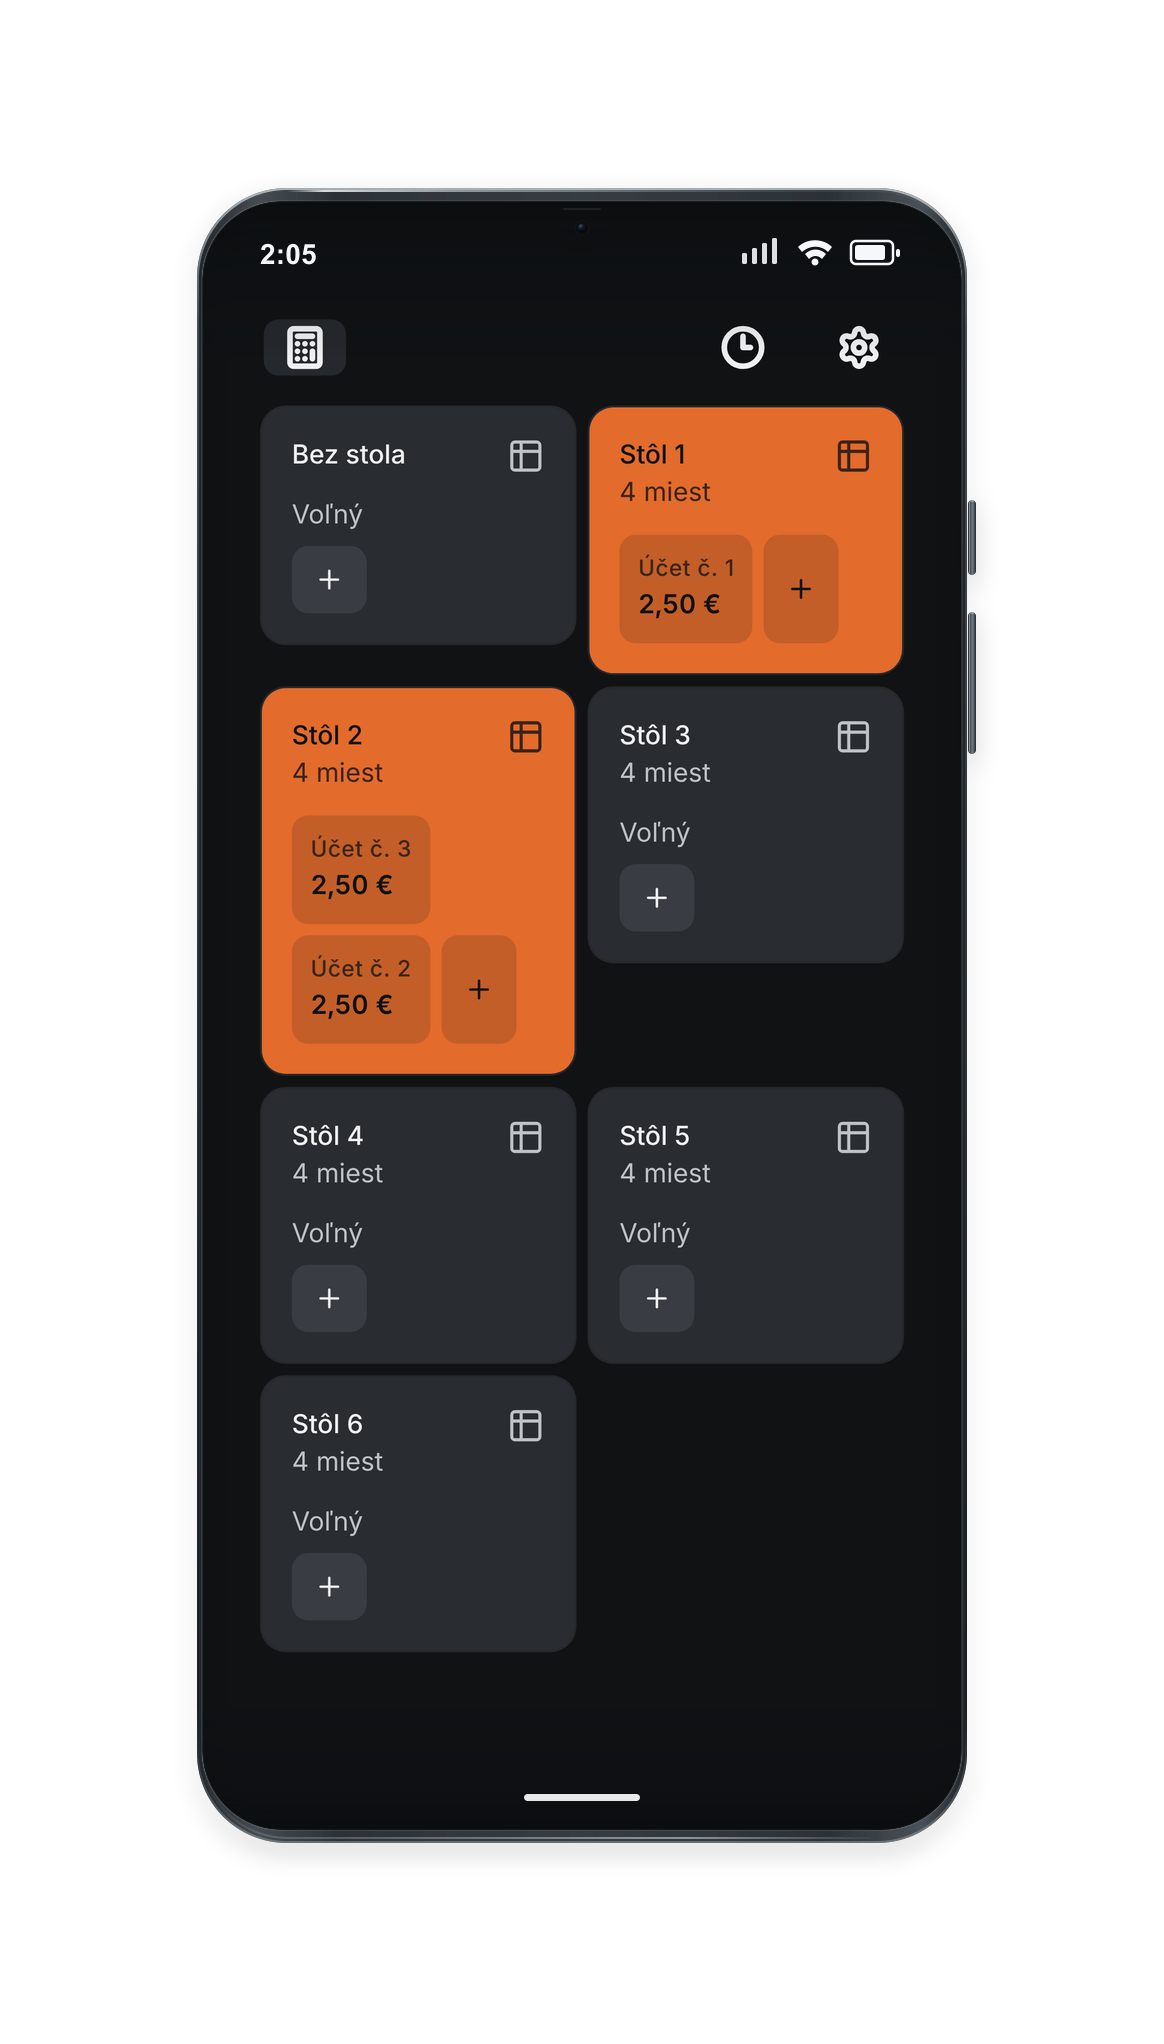
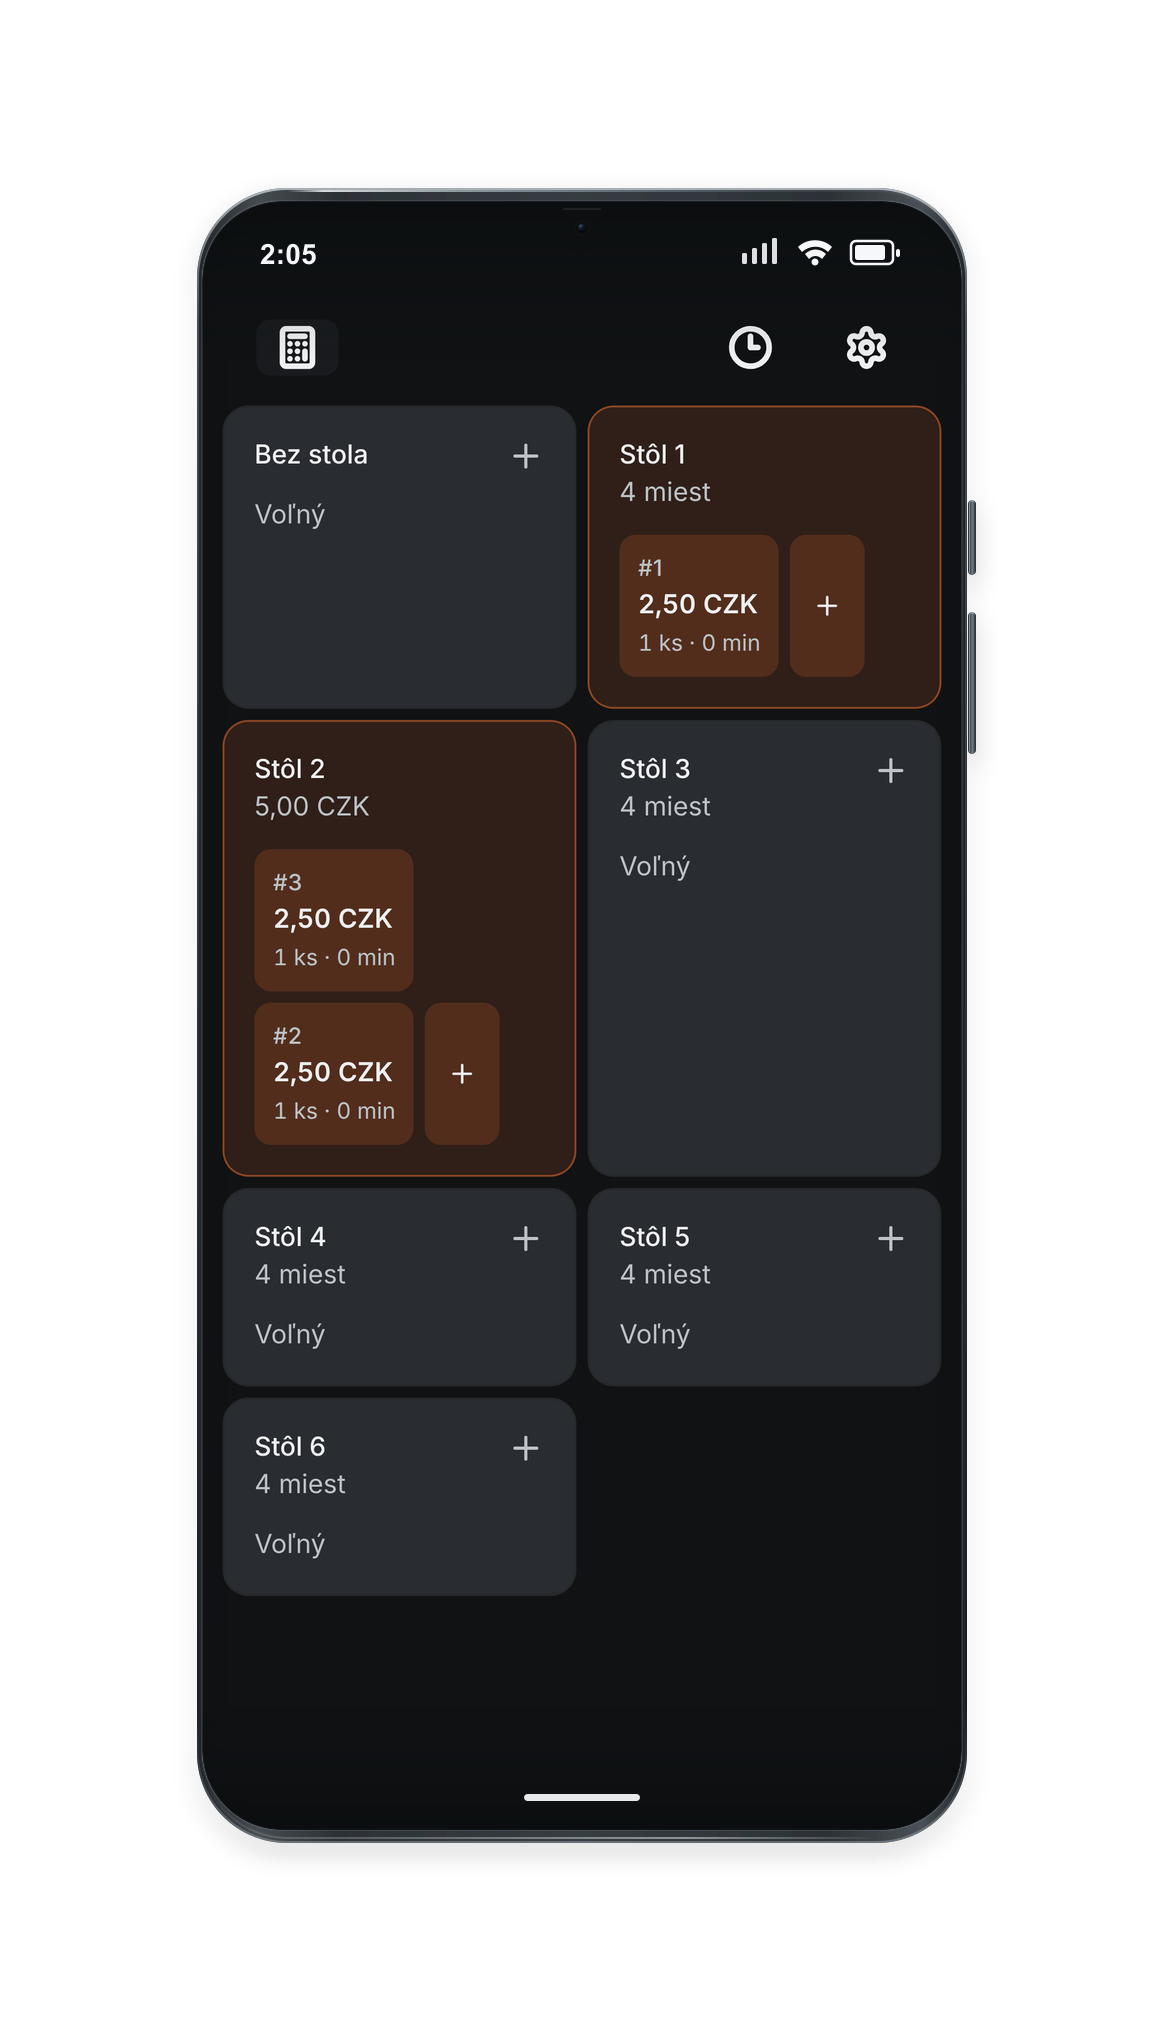
feat(terminal-home): calm the pos floor view and surface table totals
On a busy floor most tiles are occupied, and solid-filled tiles stopped
telling them apart; occupied is now a tint with an accent ring, leaving
the solid accent for the payment badges that need attention. Tiles in a
row share a height, so a tall tile no longer leaves a gap beside it.

The table glyph repeated on every tile carried nothing; a free tile shows
a "+" in its place instead of a separate button. A table with several
bills shows its running total instead of the seat count, and bill cards
read "#3" with an item count rather than repeating "Bill #".

The single-bill tile's full-tile link is now aria-hidden and unfocusable,
only widening the bill card's own target, so a tap at the tile's centre
can no longer land on the "+" instead of the bill.

Claude-Session: https://claude.ai/code/session_01BK6n6yMEXHuB1LsHBmX4Pa

Changed region(s): [[0.1856, 0.1541, 0.8351, 0.8322], [0.433, 0.2158, 0.4639, 0.2466]]

diff --git a/src/features/terminal-home/pos-overview-page.tsx b/src/features/terminal-home/pos-overview-page.tsx
@@ -16,6 +16,7 @@ import {
   calculateBillLineSummaries,
   deriveBillSummaryStats,
 } from "@/core/modules/bill-line/bill-line-utils.ts"
+import { NonNegativeInteger } from "@/core/modules/shared/schema.ts"
 import { tablesQuery } from "@/core/modules/table/table-queries.ts"
 import type { TableId } from "@/core/modules/table/table-types.ts"
 import { TableTileShell } from "@/features/tables/table-tile.tsx"
@@ -23,7 +24,6 @@ import { useEvoluQuery } from "@/hooks/use-evolu-query.ts"
 import { useLocale } from "@/hooks/use-locale.ts"
 import { useTranslation } from "@/hooks/use-translation.ts"
 import { formatElapsed, formatMoney } from "@/lib/format-utils.ts"
-import { cn } from "@/lib/utils.ts"
 
 /**
  * Single overview grid for the POS home screen: a permanent "no table"
@@ -63,7 +63,7 @@ export function PosOverviewPage() {
   )
 
   return (
-    <div className="mt-4 grid grid-cols-2 items-start gap-2 pb-4">
+    <div className="mt-4 grid grid-cols-2 gap-2 pb-4">
       <OverviewTile
         testId="no-table-tile"
         name={t("bill.table.dialog.none")}
@@ -93,7 +93,12 @@ const stretchedLinkClassName =
  * `tableId` undefined. A free tile starts a bill anywhere it is tapped, and a
  * tile with exactly one bill opens it; only with two or more bills does the
  * tap have to pick one. The "+" stays for a second bill (a split check) and
- * sits above the tile-wide link.
+ * sits above the tile-wide link. That link only widens the bill card's own
+ * target, so it is hidden from assistive tech and focus instead of being a
+ * second, empty link to the same bill.
+ *
+ * With two or more bills the subtitle swaps the seat count for the table's
+ * running total — what staff look for once a table is seated.
  */
 function OverviewTile({
   testId,
@@ -109,41 +114,69 @@ function OverviewTile({
   readonly bills: ReadonlyArray<OpenBillRow>
 }) {
   const { t } = useTranslation()
+  const locale = useLocale()
   const occupied = bills.length > 0
   const onlyBill = bills.length === 1 ? bills[0] : undefined
 
+  // Derived from the rows' embedded `lines`/`items`, not a per-bill query:
+  // a query per bill meant the floor view opened two more for every bill on
+  // screen.
+  const rows = useMemo(
+    () =>
+      bills.map((bill) => ({
+        bill,
+        stats: deriveBillSummaryStats(
+          calculateBillLineSummaries(bill.lines, bill.items)
+        ),
+      })),
+    [bills]
+  )
+  const [firstBill] = bills
+  const tableTotal =
+    bills.length > 1 &&
+    firstBill !== undefined &&
+    bills.every((bill) => bill.currency === firstBill.currency)
+      ? formatMoney(
+          {
+            value: NonNegativeInteger(
+              rows.reduce((sum, { stats }) => sum + stats.totalAmount, 0)
+            ),
+            currency: firstBill.currency,
+          },
+          locale
+        )
+      : undefined
+
   return (
     <div data-testid={testId} className="relative">
-      <TableTileShell name={name} subtitle={subtitle} occupied={occupied}>
-        <div className="flex flex-col gap-1.5">
-          {!occupied && (
-            <p className="text-sm text-muted-foreground">
-              {t("tables.tile.free")}
-            </p>
-          )}
+      <TableTileShell
+        name={name}
+        subtitle={tableTotal ?? subtitle}
+        occupied={occupied}
+        icon={
+          occupied ? null : (
+            <PlusIcon className="size-5 shrink-0 text-muted-foreground" />
+          )
+        }
+      >
+        {occupied ? (
           <div className="flex flex-wrap gap-1.5">
-            {bills.map((bill) => (
-              <TileBillCard
-                key={bill.id}
-                bill={bill}
-                linked={onlyBill === undefined}
-              />
+            {rows.map(({ bill, stats }) => (
+              <TileBillCard key={bill.id} bill={bill} stats={stats} />
             ))}
-            {occupied ? (
-              <NewBillLink
-                tableId={tableId}
-                aria-label={t("tables.tile.newBill")}
-                className="relative z-10 flex items-center justify-center rounded-lg bg-primary-foreground/15 px-3 py-2.5 text-primary-foreground transition-colors hover:bg-primary-foreground/25"
-              >
-                <PlusIcon className="size-4" />
-              </NewBillLink>
-            ) : (
-              <span className="flex items-center justify-center rounded-lg bg-muted px-3 py-2.5 text-foreground">
-                <PlusIcon className="size-4" />
-              </span>
-            )}
+            <NewBillLink
+              tableId={tableId}
+              aria-label={t("tables.tile.newBill")}
+              className="relative z-10 flex items-center justify-center rounded-lg bg-primary/20 px-3 py-2.5 transition-colors hover:bg-primary/30"
+            >
+              <PlusIcon className="size-4" />
+            </NewBillLink>
           </div>
-        </div>
+        ) : (
+          <p className="text-sm text-muted-foreground">
+            {t("tables.tile.free")}
+          </p>
+        )}
       </TableTileShell>
       {!occupied && (
         <NewBillLink
@@ -156,7 +189,8 @@ function OverviewTile({
         <Link
           to="/bill"
           search={{ billId: onlyBill.id }}
-          aria-label={billLabel(onlyBill, t)}
+          aria-hidden
+          tabIndex={-1}
           className={stretchedLinkClassName}
         />
       )}
@@ -201,34 +235,24 @@ const billLabel = (
  * One open bill inside a tile, shown as its own small card (rather than a
  * full-width row or a single count) so each bill — including split checks
  * at the same table — can be jumped into directly, and several sit side
- * by side instead of always stacking one per line. `linked` is false when
- * the tile itself already links to this, its only bill.
+ * by side instead of always stacking one per line.
  *
  * Also shows how long the bill has been open and whether a payment is in
  * flight or has partly landed, so staff can spot the table that is waiting.
+ * That badge is the one solid accent on the floor view, on purpose.
  */
 function TileBillCard({
   bill,
-  linked,
+  stats,
 }: {
   readonly bill: OpenBillRow
-  readonly linked: boolean
+  readonly stats: ReturnType<typeof deriveBillSummaryStats>
 }) {
   const { t } = useTranslation()
   const locale = useLocale()
   // ponytail: 30 s tick, so an expired invoice's "paying" badge can outlive
   // `expiresAt` by up to that — use `useNow(expiresAt)` if it ever matters.
   const now = useTimestamp({ interval: 30_000 })
-  // Derived from the row's embedded `lines`/`items`, not a per-bill query:
-  // this card renders once per open bill, so a query here meant the floor
-  // view opened two more for every bill on screen.
-  const { totalAmount } = useMemo(
-    () =>
-      deriveBillSummaryStats(
-        calculateBillLineSummaries(bill.lines, bill.items)
-      ),
-    [bill]
-  )
   const hasPendingPayment =
     derivePendingPaymentIds(
       bill.payments,
@@ -238,21 +262,30 @@ function TileBillCard({
   // Still open with a claim behind it: some money is in, not all of it.
   const isPartlyPaid = bill.claims.length > 0
 
-  const className =
-    "flex max-w-full flex-col items-start gap-0.5 rounded-lg bg-primary-foreground/15 px-2.5 py-2.5 text-primary-foreground"
-  const content = (
-    <>
-      <span className="max-w-full truncate text-xs font-medium tracking-wide text-primary-foreground/75">
-        {billLabel(bill, t)}
+  return (
+    <Link
+      to="/bill"
+      search={{ billId: bill.id }}
+      aria-label={billLabel(bill, t)}
+      className="relative z-10 flex max-w-full flex-col items-start gap-0.5 rounded-lg bg-primary/20 px-2.5 py-2.5 transition-colors hover:bg-primary/30"
+    >
+      <span className="max-w-full truncate text-xs font-medium tracking-wide text-muted-foreground">
+        {bill.label ??
+          t("tables.tile.billNumber", { number: bill.displayNumber })}
       </span>
       <span className="text-sm font-semibold tabular-nums">
-        {formatMoney({ value: totalAmount, currency: bill.currency }, locale)}
+        {formatMoney(
+          { value: stats.totalAmount, currency: bill.currency },
+          locale
+        )}
       </span>
-      <span className="text-xs tabular-nums text-primary-foreground/75">
+      <span className="text-xs tabular-nums text-muted-foreground">
+        {t("tables.tile.itemCount", { value: stats.itemCount })}
+        {" · "}
         {formatElapsed(now - new Date(bill.createdAt).getTime(), locale)}
       </span>
       {(hasPendingPayment || isPartlyPaid) && (
-        <span className="mt-0.5 rounded-sm bg-primary-foreground px-1.5 py-0.5 text-[0.7rem] font-semibold text-primary">
+        <span className="mt-0.5 rounded-sm bg-primary px-1.5 py-0.5 text-[0.7rem] font-semibold text-primary-foreground">
           {t(
             hasPendingPayment
               ? "tables.tile.paymentPending"
@@ -260,22 +293,6 @@ function TileBillCard({
           )}
         </span>
       )}
-    </>
-  )
-
-  if (!linked) return <div className={className}>{content}</div>
-
-  return (
-    <Link
-      to="/bill"
-      search={{ billId: bill.id }}
-      aria-label={billLabel(bill, t)}
-      className={cn(
-        className,
-        "transition-colors hover:bg-primary-foreground/25"
-      )}
-    >
-      {content}
     </Link>
   )
 }

diff --git a/src/features/tables/table-tile.tsx b/src/features/tables/table-tile.tsx
@@ -18,25 +18,32 @@ import { cn } from "@/lib/utils.ts"
  * assignment picker, so all three show occupancy the same way. Takes a
  * plain name/subtitle rather than a `TableRow` so a non-table tile can
  * reuse it without faking a table row.
+ *
+ * Occupied is a tint and an accent ring, not a solid fill: on a busy floor
+ * most tiles are occupied, and a wall of solid color stops telling them
+ * apart — the solid accent is left for what needs attention inside a tile.
+ * `icon` defaults to the table glyph; pass `null` for none.
  */
 export function TableTileShell({
   name,
   subtitle,
   occupied,
   selected,
+  icon = <Table2 className="size-5 shrink-0 text-muted-foreground" />,
   children,
 }: {
   readonly name: string
   readonly subtitle?: ReactNode
   readonly occupied: boolean
   readonly selected?: boolean
+  readonly icon?: ReactNode
   readonly children: ReactNode
 }) {
   return (
     <Card
       className={cn(
-        "gap-3 p-4",
-        occupied && "bg-primary text-primary-foreground",
+        "h-full gap-3 p-4",
+        occupied && "bg-primary/15 ring-primary/60",
         selected && "ring-2 ring-primary ring-offset-2 ring-offset-background"
       )}
     >
@@ -44,22 +51,10 @@ export function TableTileShell({
         <div className="min-w-0">
           <p className="truncate font-medium">{name}</p>
           {subtitle !== undefined && (
-            <p
-              className={cn(
-                "text-sm text-muted-foreground",
-                occupied && "text-primary-foreground/80"
-              )}
-            >
-              {subtitle}
-            </p>
+            <p className="text-sm text-muted-foreground">{subtitle}</p>
           )}
         </div>
-        <Table2
-          className={cn(
-            "size-5 shrink-0 text-muted-foreground",
-            occupied && "text-primary-foreground/80"
-          )}
-        />
+        {icon}
       </div>
       {children}
     </Card>
@@ -80,9 +75,9 @@ export function OccupiedTableSummary({ bill }: { readonly bill: OpenBillRow }) {
   )
 
   return (
-    <div className="flex flex-col gap-0.5 text-primary-foreground/80">
+    <div className="flex flex-col gap-0.5 text-muted-foreground">
       <p className="text-sm">{t("bill.itemsCount", { value: itemCount })}</p>
-      <p className="text-sm font-semibold text-primary-foreground">
+      <p className="text-sm font-semibold text-foreground">
         {formatMoney({ value: totalAmount, currency: bill.currency }, locale)}
       </p>
     </div>

diff --git a/src/i18n/cs/common.ts b/src/i18n/cs/common.ts
@@ -62,7 +62,9 @@ export const csCommon = {
   "scanner.torch.off": "Vypnout svítilnu",
   "scanner.torch.on": "Zapnout svítilnu",
   "tables.seatCount": "{value} míst",
+  "tables.tile.billNumber": "#{number}",
   "tables.tile.free": "Volný",
+  "tables.tile.itemCount": "{value} ks",
   "tables.tile.multipleBills": "{value} otevřených účtů",
   "tables.tile.newBill": "Nový účet",
   "tables.tile.partiallyPaid": "Částečně zaplaceno",

diff --git a/src/i18n/sk/common.ts b/src/i18n/sk/common.ts
@@ -63,7 +63,9 @@ export const skCommon = {
   "scanner.torch.off": "Vypnúť svetlo",
   "scanner.torch.on": "Zapnúť svetlo",
   "tables.seatCount": "{value} miest",
+  "tables.tile.billNumber": "#{number}",
   "tables.tile.free": "Voľný",
+  "tables.tile.itemCount": "{value} ks",
   "tables.tile.multipleBills": "{value} otvorených účtov",
   "tables.tile.newBill": "Nový účet",
   "tables.tile.partiallyPaid": "Čiastočne zaplatené",

diff --git a/src/i18n/en/common.ts b/src/i18n/en/common.ts
@@ -60,7 +60,9 @@ export const enCommon = {
   "scanner.torch.off": "Turn off flashlight",
   "scanner.torch.on": "Turn on flashlight",
   "tables.seatCount": "{value} seats",
+  "tables.tile.billNumber": "#{number}",
   "tables.tile.free": "Free",
+  "tables.tile.itemCount": "{value} pcs",
   "tables.tile.multipleBills": "{value} open bills",
   "tables.tile.newBill": "New bill",
   "tables.tile.partiallyPaid": "Partly paid",

diff --git a/src/features/bill/assign-table-dialog.tsx b/src/features/bill/assign-table-dialog.tsx
@@ -166,7 +166,7 @@ function TableAssignmentTile({
         occupied
         selected={selected}
       >
-        <p className="text-sm text-primary-foreground/80">
+        <p className="text-sm text-muted-foreground">
           {t("tables.tile.multipleBills", { value: bills.length })}
         </p>
       </TableTileShell>
